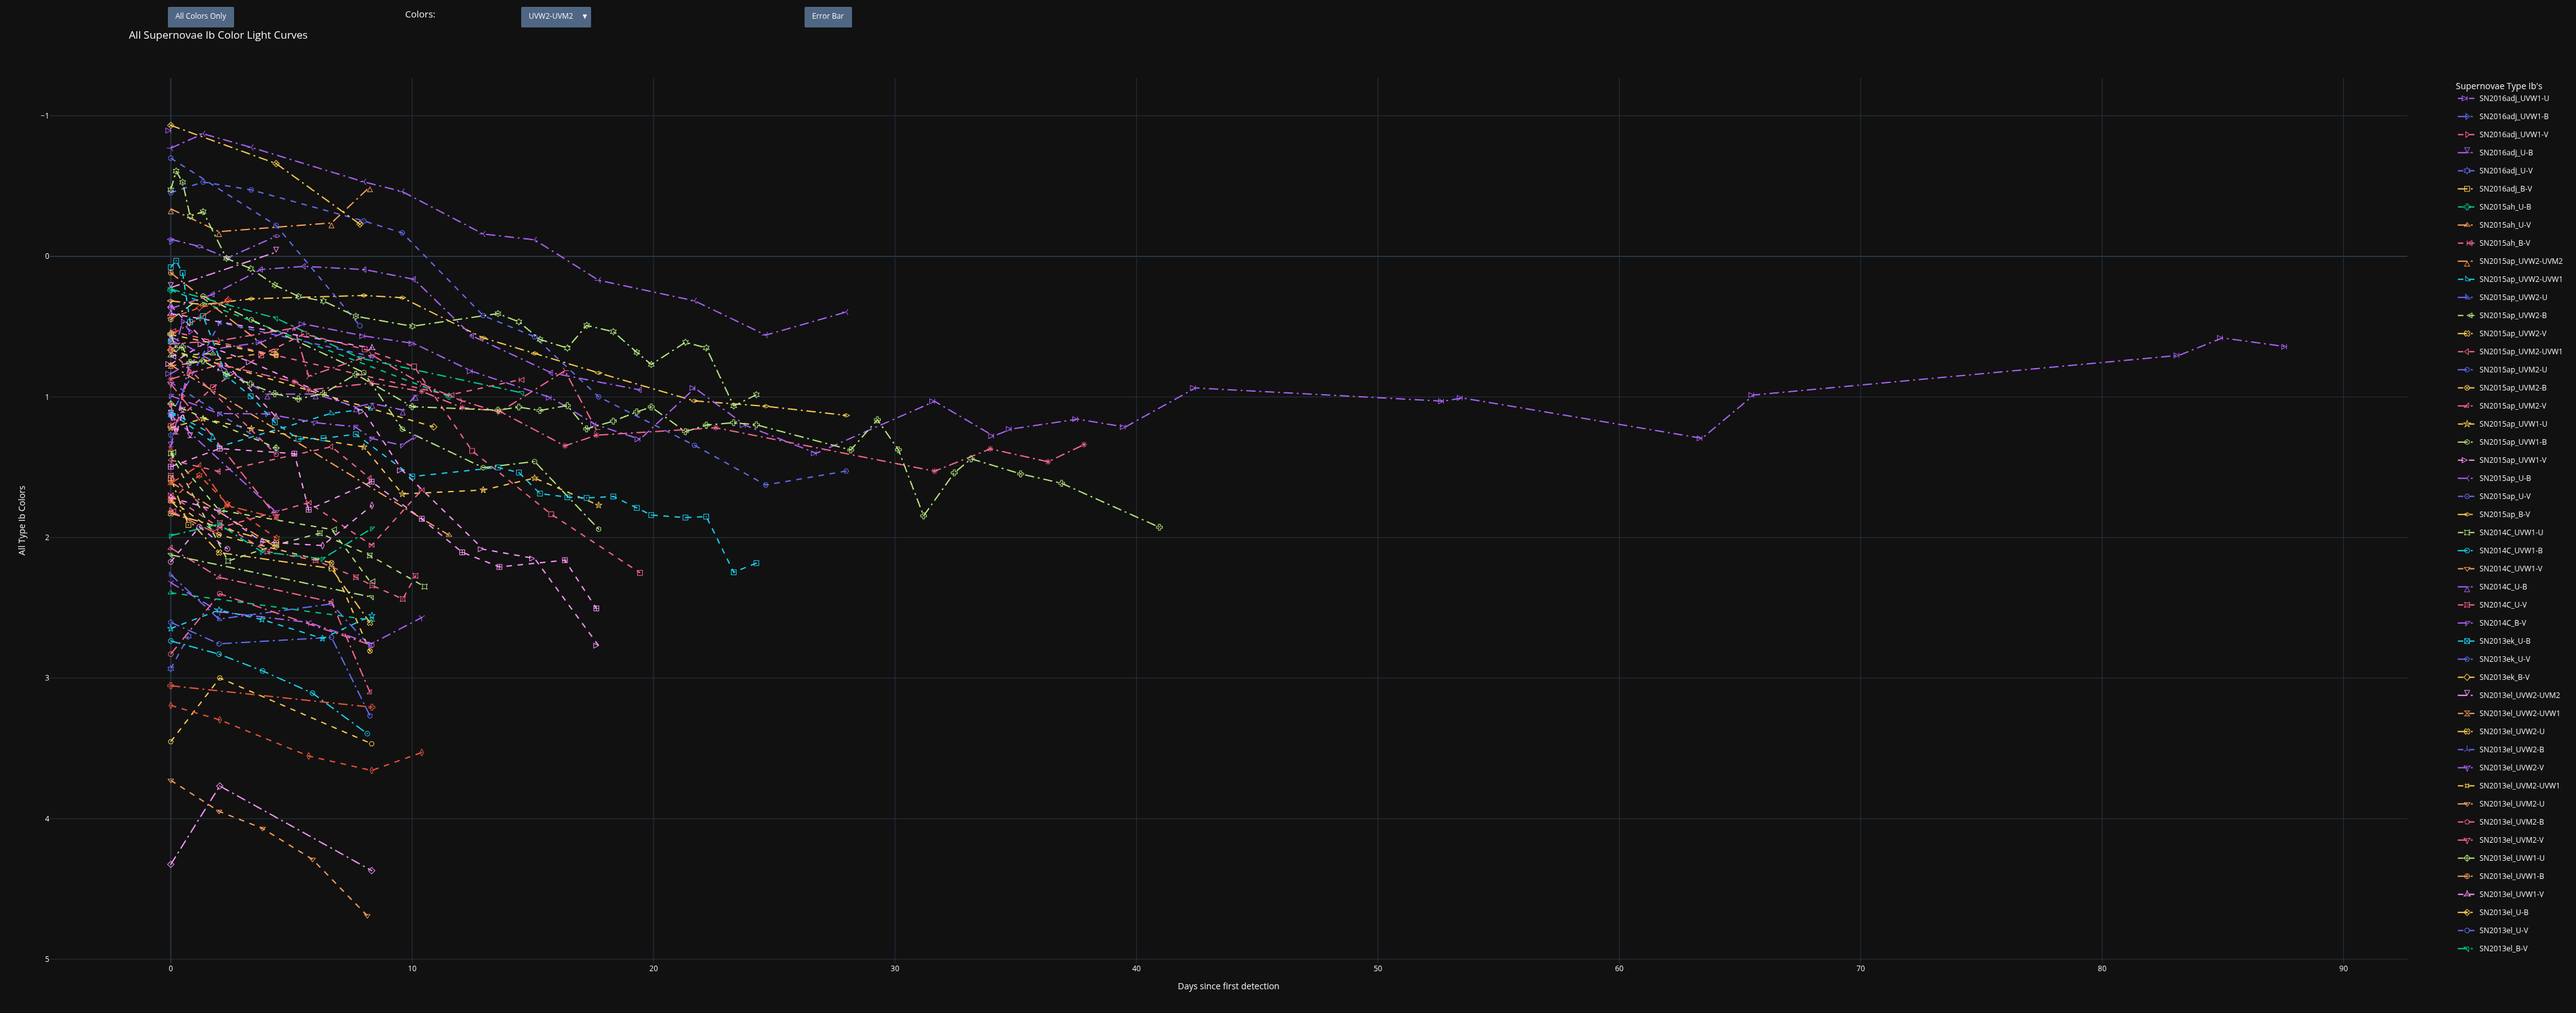
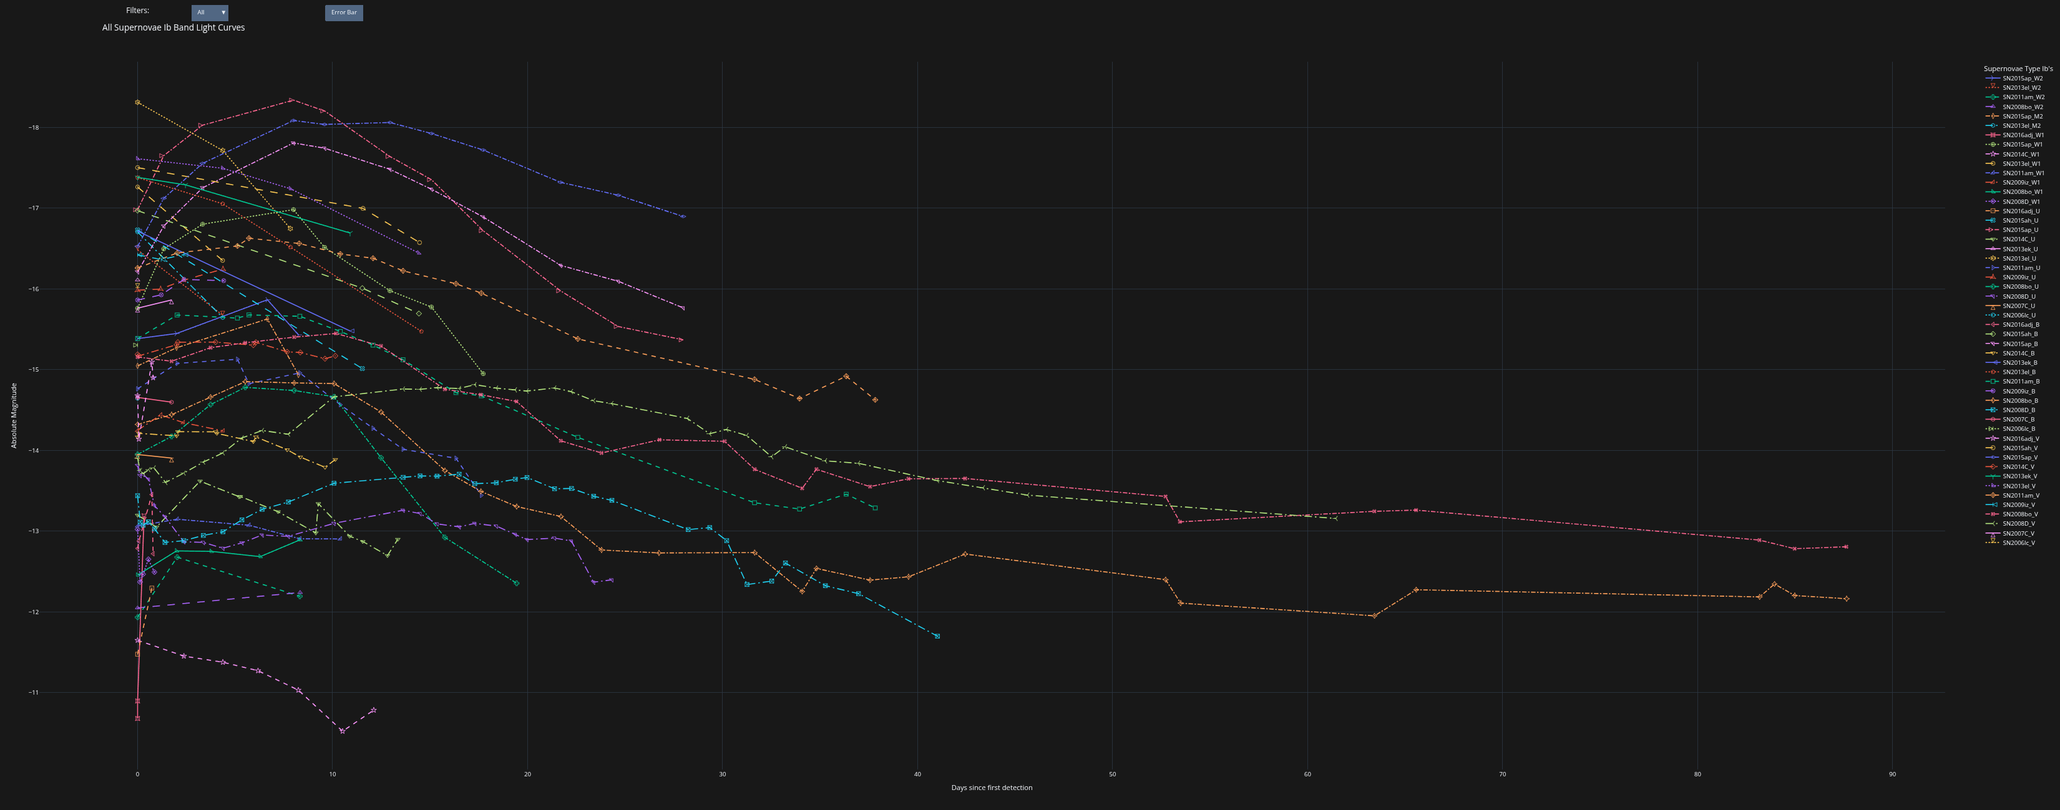
Format the rest of the images

diff --git a/index.html b/index.html
@@ -35,7 +35,7 @@
                     <li><a href="#about"><button class="nav-btn" onclick="filterSelectionNavbar('about')" ><span class="iconify" data-icon="bi:person-lines-fill" data-inline="True"></span><div class="nav-text">About Me</div></button></a></li>
                     <li><a href="#projects"><button class="nav-btn" onclick="filterSelectionNavbar('projects')" ><span class="iconify" data-icon="clarity:briefcase-solid" data-inline="True"></span><div class="nav-text">Projects</div></button></a></li>
                     <li><a href="#graphs"><button class="nav-btn" onclick="filterSelectionNavbar('graphs')" ><span class="iconify" data-icon="octicon:graph-16"></span><div class="nav-text">Graphs</div></button></a></li>
-                    <li><a href="./Resume.pdf"><button class="nav-btn"><span class="iconify" data-icon="carbon:document-pdf" data-inline="True"></span><div class="nav-text">Resume</div></button></a></li>
+                    <li><a href="./AlexanderCrabtree-CV.pdf"><button class="nav-btn"><span class="iconify" data-icon="carbon:document-pdf" data-inline="True"></span><div class="nav-text">CV</div></button></a></li>
                     <li><a href="#contact"><button class="nav-btn" onclick="filterSelectionNavbar('contact')" ><span class="iconify" data-icon="clarity:email-solid" data-inline="True"></span><div class="nav-text">Contact Me</div></button></a></li>
                 </ul>
             </nav>
@@ -409,7 +409,7 @@
                     <br>
                     <div id="SNelight" class="splide">
                         <h2>Swift Supernovae UVOT Filter Light Curve Graphs</h2>
-                        <div class="splide__track">
+                        < class="splide__track">
                             <ul class="splide__list">
                                 <li class="splide__slide"><img src="./SNeLight_Ib.png" alt="Swift Supernovae Type Ib UVOT Light Curve" class="splide-snelight-image"</img>
                                     <p>
@@ -420,7 +420,7 @@
                                         Error Bar button. Finally, you can toggle specific SNe by double-clicking SNe in the Legend, to view multiple
                                         click once on a SNe you want to toggle after the initial double-click.
                                     </p></li>
-                                <li class="splide__slide"><iframe width="90%" height="600" frameborder="0" scrolling="yes" src="//plotly.com/~Alexcrabt/25.embed?autosize=false&showlink=false" data-splide-lazy-srcset="//plotly.com/~Alexcrabt/25.embed?autosize=false&showlink=false"></iframe>
+                                <li class="splide__slide"><img src="./SNeLight_Ic.png" alt="Swift Supernovae Type Ic UVOT Light Curve" class="splide-snelight-image"</img>
                                     <p>
                                     This graph dispays a light curve for the UVOT filters of Type Ic Supernovae (SNe) from SOUSA.
                                         The graph starts with all filters light curves dispayed together.
@@ -429,8 +429,7 @@
                                         Error Bar button. Finally, you can toggle specific SNe by double-clicking SNe in the Legend, to view multiple
                                         click once on a SNe you want to toggle after the initial double-click.
                                 </p></li>
-                                <li class="splide__slide"><iframe width="90%" height="600" frameborder="0" scrolling="yes" src="//plotly.com/~Alexcrabt/15.embed?autosize=false&showlink=false" data-splide-lazy-srcset="//plotly.com/~Alexcrabt/15.embed?autosize=false&showlink=false"></iframe>
-                                    <p>
+                                <li class="splide__slide"><img src="./SNeLight_IIP.png" alt="Swift Supernovae Type IIP UVOT Light Curve" class="splide-snelight-image"</img>
                                     This graph displays a light curve for the UVOT filters of Type IIP Supernovae (SNe) from SOUSA.
                                         The graph starts with all filters light curves dispayed together.
                                         You can choose to look at all SNe of a certain filter by selecting the filter from the Filter
@@ -447,7 +446,7 @@
                         <h2>Swift Supernovae UVOT Color Light Curve Graphs</h2>
                         <div class="splide__track">
                             <ul class="splide__list">
-                                <li class="splide__slide"><iframe width="93%" height="650" frameborder="0" scrolling="yes" src="//plotly.com/~Alexcrabt/27.embed?autosize=false&showlink=false" data-splide-lazy-srcset="//plotly.com/~Alexcrabt/27.embed?autosize=false&showlink=false"></iframe>
+                                <li class="splide__slide"><img src="./SNeColorLight_Ib.png" alt="Swift Supernovae Type Ib UVOT Color Light Curve" class="splide-snecolor-image"</img>
                                     <p>
                                     This graph displays a color light curve for Type Ib Supernovae (SNe) from SOUSA,
                                     all 15 colors are some combination of the UVOT filters.
@@ -457,7 +456,8 @@
                                     Error Bar button. Finally, you can toggle specific SNe by double-clicking SNe in the Legend, to view multiple
                                     click once on a SNe you want to toggle after the initial double-click.
                                 </p></li>
-                                <li class="splide__slide"><iframe width="93%" height="650" frameborder="0" scrolling="no" src="//plotly.com/~Alexcrabt/29.embed?autosize=false&showlink=false" data-splide-lazy-srcset="//plotly.com/~Alexcrabt/29.embed?autosize=false&showlink=false"></iframe>
+                                <li class="splide__slide"><img src="./SNeColorLight_Ic.png" alt="Swift Supernovae Type Ic UVOT Color Light Curve" class="splide-snecolor-image"</img>
+                                    <p>
                                     <p>
                                     This graph displays a color light curve for Type Ic Supernovae (SNe) from SOUSA,
                                     all 15 colors are some combination of the UVOT filters.
@@ -467,7 +467,7 @@
                                     Error Bar button. Finally, you can toggle specific SNe by double-clicking SNe in the Legend, to view multiple
                                     click once on a SNe you want to toggle after the initial double-click.
                                 </p></li>
-                                <li class="splide__slide"><iframe width="93%" height="650" frameborder="0" scrolling="yes" src="//plotly.com/~Alexcrabt/31.embed?autosize=false&showlink=false" data-splide-lazy-srcset="//plotly.com/~Alexcrabt/31.embed?autosize=false&showlink=false"></iframe>
+                                <li class="splide__slide"><img src="./SNeColorLight_IIP.png" alt="Swift Supernovae Type IIP UVOT Color Light Curve" class="splide-snecolor-image"</img>
                                     <p>
                                     This graph displays a color light curve for Type IIP Supernovae (SNe) from SOUSA,
                                     all 15 colors are some combination of the UVOT filters.

diff --git a/style.css b/style.css
@@ -468,6 +468,12 @@ textarea:focus {
     object-fit: contain;
 }
 
+.splide-snecolor-image {
+    width: 100%;
+    max-height: 70vh;
+    object-fit: contain;
+}
+
 .splide__track {
     overflow: hidden;
 }
